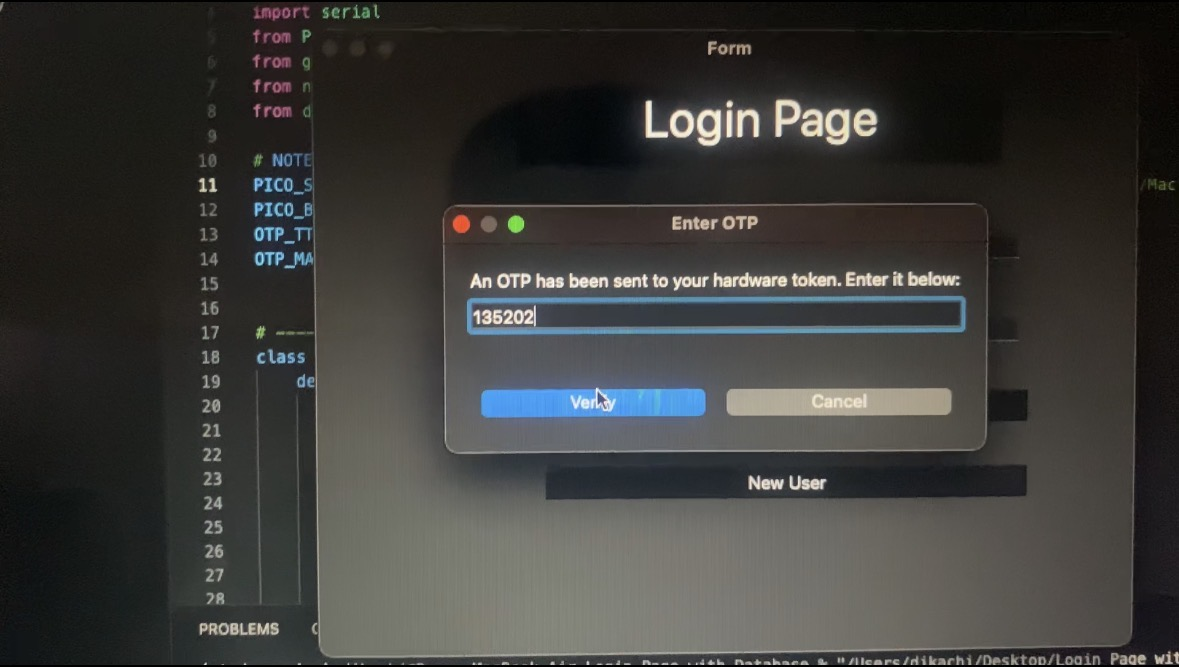
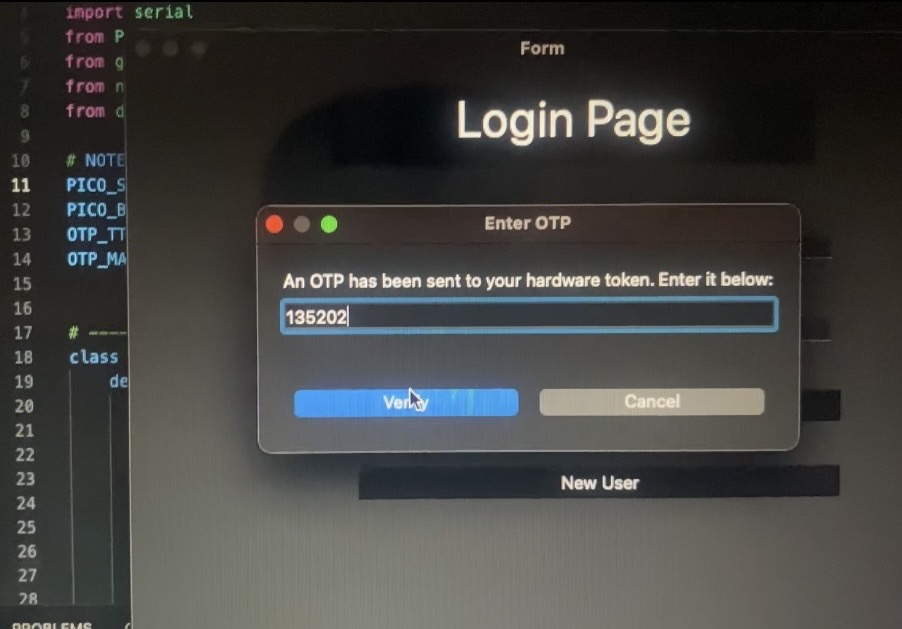
Update responsive navigation and portfolio layout

diff --git a/style.css b/style.css
@@ -32,6 +32,15 @@ nav {
   font-weight: 700;
 }
 
+.menu-toggle {
+  display: none;
+  background: none;
+  border: none;
+  color: #f8fafc;
+  font-size: 1.8rem;
+  cursor: pointer;
+}
+
 nav ul {
   display: flex;
   list-style: none;
@@ -73,7 +82,7 @@ nav ul a:hover::after {
   display: flex;
   align-items: center;
   justify-content: center;
-  gap: 60px;
+  gap: 70px;
   padding: 80px 8%;
 }
 
@@ -106,6 +115,7 @@ nav ul a:hover::after {
   max-width: 600px;
   color: #94a3b8;
   font-size: 1.1rem;
+  line-height: 1.6;
   margin-bottom: 35px;
 }
 
@@ -435,21 +445,48 @@ footer p {
   }
 
   nav {
-    flex-direction: column;
-    gap: 20px;
+    flex-direction: row;
+    justify-content: space-between;
+    align-items: center;
+    flex-wrap: wrap;
+  }
+
+  .menu-toggle {
+    display: block;
   }
 
   nav ul {
+    display: flex;
+    width: 100%;
+    flex-direction: column;
     gap: 18px;
-    flex-wrap: wrap;
-    justify-content: center;
+    align-items: center;
+
+    opacity: 0;
+    transform: translateY(-10px);
+    pointer-events: none;
+
+    position: relative;
+    z-index: 10;
+
+    transition:
+      opacity 0.3s ease,
+      transform 0.3s ease;
+  }
+
+  nav ul.active {
+    max-height: 300px;
+    opacity: 1;
+    transform: translateY(0);
+    pointer-events: auto;
+    padding-top: 20px;
   }
 
   .hero {
     min-height: auto;
     flex-direction: column;
     gap: 40px;
-    padding: 80px 5%;
+    padding: 30px 5% 80px;
     text-align: center;
   }
 
@@ -484,8 +521,37 @@ footer p {
     grid-template-columns: 1fr;
   }
 
+  /* .project-links {
+    transition:
+      background-color 0.3 ease,
+      border-color 0.3s ease,
+      color 0.3s ease;
+  }
+
+  .project-links a:hover {
+    background: #38bdf8;
+    border-color: #38bdf8;
+    color: #0f172a;
+  } */
+
   .project-image {
     height: 280px;
+    display: flex;
+    padding: 10px;
+    /* flex-direction: column; */
+    overflow: hidden;
+    aspect-ratio: auto;
+  }
+
+  .project-image img {
+    width: 50%;
+    height: 100%;
+    object-fit: contain;
+  }
+
+  .project-image .software-image {
+    width: 65%;
+    transform: none;
   }
 
   .project-info {

diff --git a/index.html b/index.html
@@ -14,6 +14,9 @@
     <header>
       <nav>
         <a href="#" class="logo">David Ugwunnamuchi</a>
+        <button class="menu-toggle" aria-label="Open navigation menu">
+          ☰
+        </button>
         <ul>
           <li><a href="#about">About</a></li>
           <li><a href="#skills">Skills</a></li>
@@ -106,7 +109,7 @@
                 src="./images/hardware.jpg"
                 alt="OTP displayed on the Raspberry Pi Pico"
               />
-              <img
+              <img class="software-image"
                 src="./images/Software.jpg"
                 alt="OTP entered on the login page"
               />
@@ -202,7 +205,7 @@
           I'm always interested in learning, building new projects, and
           connecting with other developers. Feel free to reach out.
         </p>
-        <a href="mailto:davidugwunnamuchi@gmail.com">Email Me</a>
+        <a href="mailto:davidugwunnamuchi14@gmail.com">Email Me</a>
       </div>
     </section>
 

diff --git a/script.js b/script.js
@@ -1,0 +1,19 @@
+const menuToggle = document.querySelector(".menu-toggle");
+const navMenu = document.querySelector("nav ul");
+
+menuToggle.addEventListener("click", () => {
+  navMenu.classList.toggle("active");
+
+  const isOpen = navMenu.classList.contains("active");
+
+  menuToggle.textContent = isOpen ? "✕" : "☰";
+});
+
+const navLinks = document.querySelectorAll("nav ul a");
+
+navLinks.forEach((link) => {
+  link.addEventListener("click", () => {
+    navMenu.classList.remove("active");
+    menuToggle.textContent = "☰";
+  });
+});
